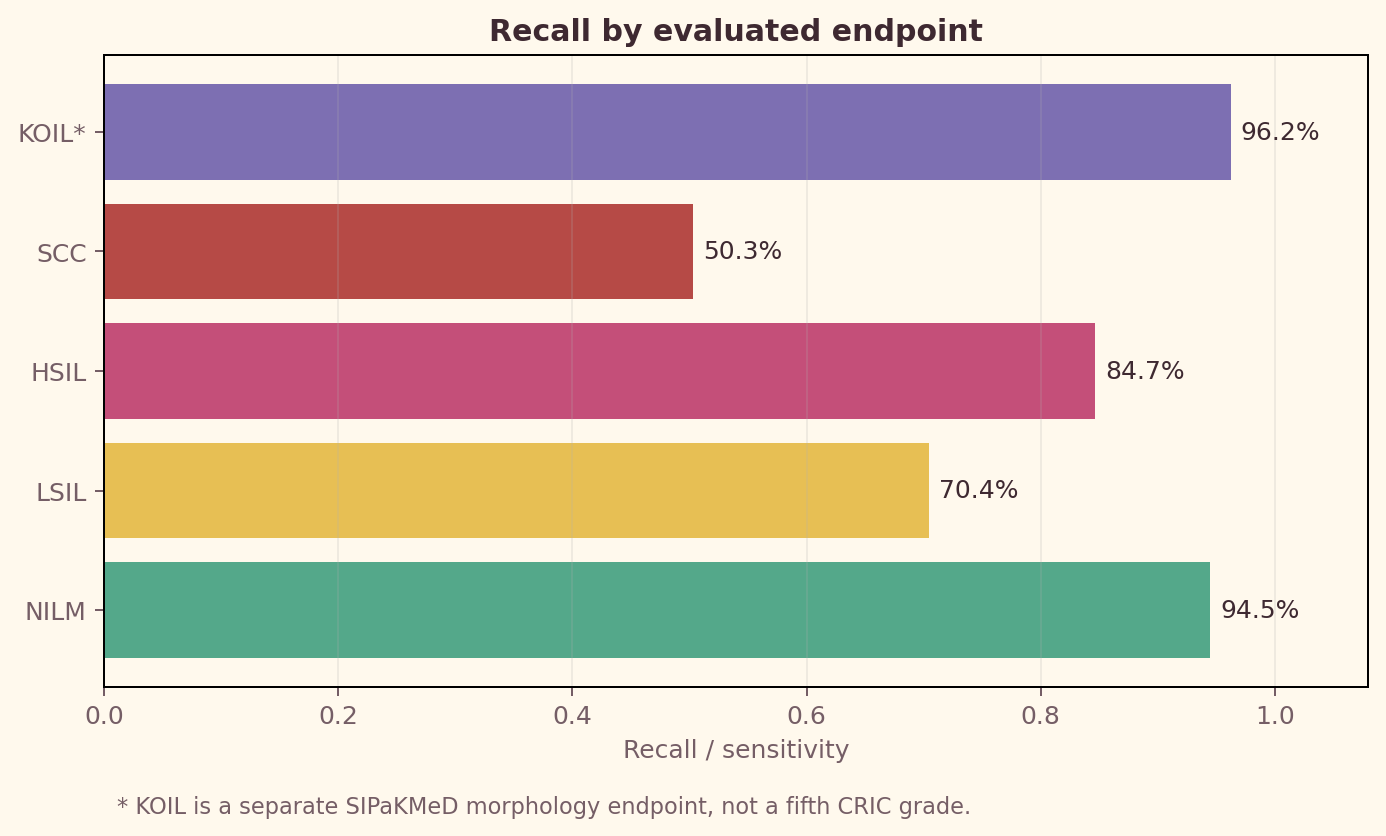
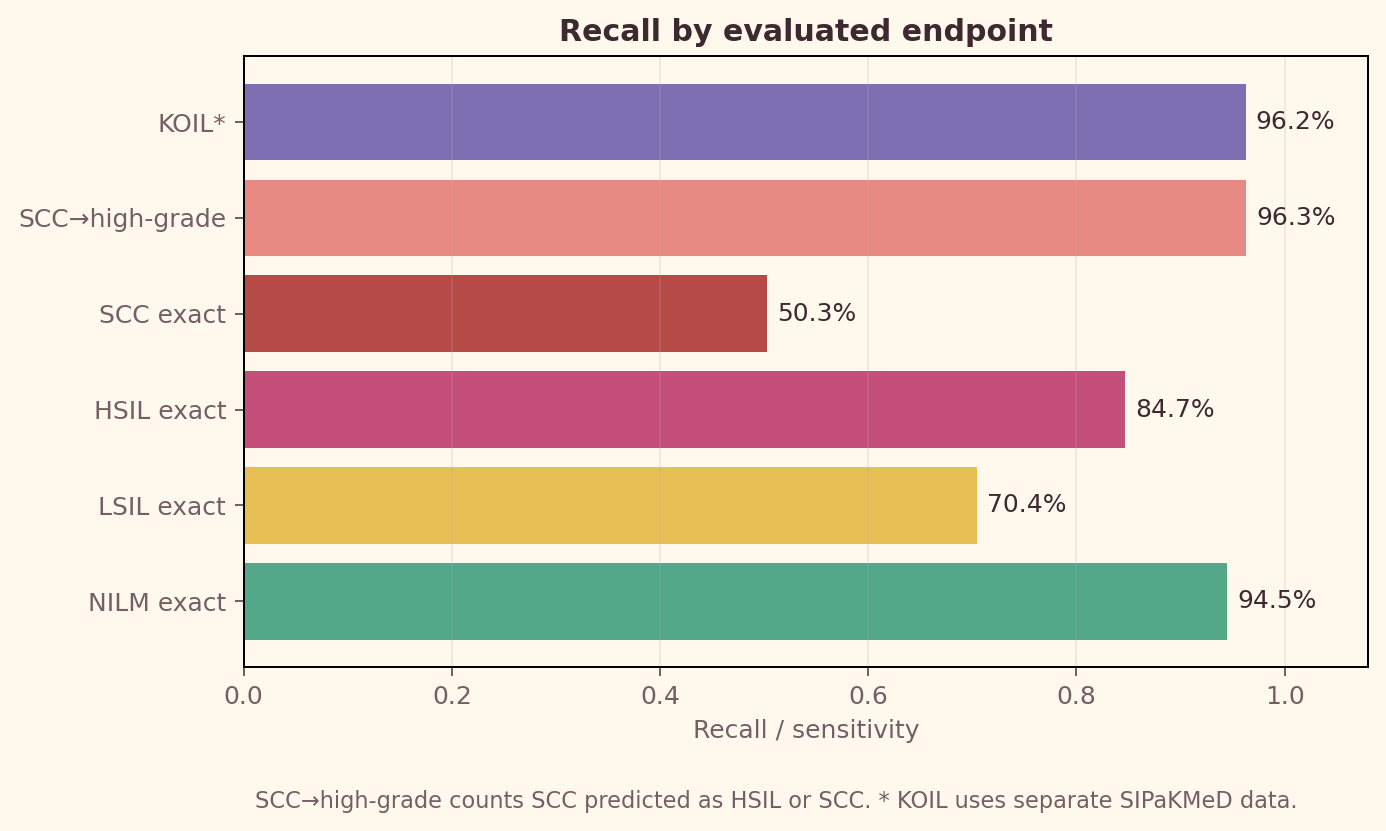
feat: clarify SCC screening performance

diff --git a/web-react/src/pages/Performance.tsx b/web-react/src/pages/Performance.tsx
@@ -1,116 +1,104 @@
+import { ChevronDown } from "lucide-react";
+import type { ReactNode } from "react";
+import { Link } from "wouter";
 import { Reveal } from "@/components/Reveal";
 import { METRICS, classInfo } from "@/lib/data";
-import { Link } from "wouter";
 
 const BASE = import.meta.env.BASE_URL;
 const GRADES = ["NILM", "LSIL", "HSIL", "SCC"] as const;
 
 const CRIC_FIGURES = [
-  { file: "evidence/cric-latest/cric_oof_confusion.png", title: "Pooled out-of-fold confusion matrix", detail: "All 10,003 CRIC cells. Each prediction comes from the fold where its parent microscope image was held out." },
-  { file: "evidence/cric-latest/cric_class_metrics.png", title: "Precision, recall, and F1 by grade", detail: "The aggregate score is not allowed to hide the weak SCC endpoint." },
-  { file: "evidence/cric-latest/cric_fold_accuracy.png", title: "Accuracy across all five folds", detail: "Every fold is retained; the lower fourth fold exposes source-image variability." },
-  { file: "evidence/cric-latest/cric_selective_tradeoff.png", title: "Selective accuracy versus coverage", detail: "Threshold 0.60 produces 91.7% accuracy at 94.1% coverage; the remaining 5.9% are sent for human review." },
-  { file: "evidence/cric-latest/cric_recall_by_endpoint.png", title: "Recall by endpoint", detail: "CRIC grade recalls and SIPaKMeD KOIL sensitivity share a visual scale, but not a dataset or label ontology." },
+  { file: "evidence/cric-latest/cric_oof_confusion.png", title: "Out-of-fold confusion matrix", detail: "All 10,003 cells; parent microscope images remain disjoint between folds." },
+  { file: "evidence/cric-latest/cric_class_metrics.png", title: "Precision, recall, and F1", detail: "Exact-grade performance for every class, including the weak SCC subtype endpoint." },
+  { file: "evidence/cric-latest/cric_fold_accuracy.png", title: "Accuracy across five folds", detail: "Every fold is retained so source-image variability remains visible." },
+  { file: "evidence/cric-latest/cric_selective_tradeoff.png", title: "Accuracy versus coverage", detail: "Higher confidence thresholds improve accepted-case accuracy by sending more cells to review." },
+  { file: "evidence/cric-latest/cric_recall_by_endpoint.png", title: "Recall by endpoint", detail: "SCC exact grading and SCC high-grade capture are shown separately; KOIL uses another dataset." },
 ] as const;
 
-const MODEL_ENDPOINTS = [
-  {
-    endpoint: "CRIC four-grade candidate",
-    output: "NILM / LSIL / HSIL / SCC",
-    evaluation: "10,003 cells · 395 parents · five-fold OOF",
-    result: <>91.7% selective at 94.1% coverage<br />88.8% full cohort</>,
-    status: "Research · not deployed",
-    statusClass: "text-hsil",
-  },
-  {
-    endpoint: "SIPaKMeD KOIL model",
-    output: "Koilocytic morphology positive / negative",
-    evaluation: "Locked test n=641 · source-cluster-disjoint",
-    result: <>Sensitivity 96.2% · AUROC 0.991</>,
-    status: "Independent endpoint",
-    statusClass: "text-teal",
-  },
-] as const;
+function MetricCard({ label, value, detail, accent = "var(--ink)" }: { label: string; value: string; detail: string; accent?: string }) {
+  return <div className="card min-w-0 p-5"><div className="text-xs font-medium text-mut">{label}</div><div className="mt-2 font-mono text-3xl font-semibold" style={{ color: accent }}>{value}</div><p className="mt-2 text-xs leading-5 text-mut">{detail}</p></div>;
+}
 
-function Stat({ label, value, sub, color }: { label: string; value: string; sub?: string; color?: string }) {
-  return <div className="card min-w-0 p-5"><div className="text-xs text-mut">{label}</div><div className="mt-1 break-words font-mono text-2xl font-semibold sm:text-3xl" style={{ color: color || "var(--ink)" }}>{value}</div>{sub && <div className="mt-1 text-xs leading-5 text-mut">{sub}</div>}</div>;
+function RecallRow({ label, value, detail, color }: { label: string; value: number; detail: string; color: string }) {
+  return <div className="grid gap-2 sm:grid-cols-[10rem_1fr_4rem] sm:items-center"><div><div className="text-sm font-semibold text-ink">{label}</div><div className="text-[11px] leading-4 text-mut">{detail}</div></div><div className="h-2 overflow-hidden rounded-full bg-line"><div className="h-full rounded-full" style={{ width: `${value * 100}%`, background: color }} /></div><div className="font-mono text-sm font-semibold sm:text-right" style={{ color }}>{(value * 100).toFixed(1)}%</div></div>;
 }
 
 function EvidenceFigure({ file, title, detail, wide = false }: { file: string; title: string; detail: string; wide?: boolean }) {
   return <figure className={`card overflow-hidden ${wide ? "md:col-span-2" : ""}`}><a href={`${BASE}${file}`} target="_blank" rel="noreferrer" className="block bg-[var(--paper)] p-2"><img src={`${BASE}${file}`} alt={title} loading="lazy" className="aspect-[16/10] w-full object-contain" /></a><figcaption className="border-t border-line p-4"><h3 className="font-display text-base font-semibold text-ink">{title}</h3><p className="mt-1 text-xs leading-5 text-mut">{detail}</p></figcaption></figure>;
 }
 
+function Disclosure({ title, summary, children }: { title: string; summary: string; children: ReactNode }) {
+  return <details className="group rounded-lg border border-line bg-surface"><summary className="flex cursor-pointer list-none items-center justify-between gap-4 p-5"><span><span className="block font-display text-lg font-semibold text-ink">{title}</span><span className="mt-1 block text-xs leading-5 text-mut">{summary}</span></span><ChevronDown className="shrink-0 text-teal transition group-open:rotate-180" size={19} aria-hidden /></summary><div className="border-t border-line p-5">{children}</div></details>;
+}
+
 function KoilConfusion() {
   const k = METRICS.koil.confusion;
-  const cells = [
-    ["TN", k.TN, "var(--nilm)"], ["FP", k.FP, "var(--hsil)"],
-    ["FN", k.FN, "var(--scc)"], ["TP", k.TP, "var(--koil)"],
-  ] as const;
-  return <div className="grid grid-cols-2 gap-2">{cells.map(([label, value, color]) => <div key={label} className="rounded-lg border border-line p-4 text-center" style={{ background: `color-mix(in srgb, ${color} 14%, var(--surface))` }}><div className="font-mono text-2xl font-semibold" style={{ color }}>{value}</div><div className="text-[10px] text-mut">{label}</div></div>)}</div>;
+  const cells = [["TN", k.TN, "var(--nilm)"], ["FP", k.FP, "var(--hsil)"], ["FN", k.FN, "var(--scc)"], ["TP", k.TP, "var(--koil)"]] as const;
+  return <div className="grid grid-cols-2 gap-2">{cells.map(([label, value, color]) => <div key={label} className="rounded-lg border border-line p-3 text-center"><div className="font-mono text-xl font-semibold" style={{ color }}>{value}</div><div className="text-[10px] text-mut">{label}</div></div>)}</div>;
 }
 
 export default function Performance() {
   const cg = METRICS.cricGrade;
-  const k = METRICS.koil;
-  return (
-    <div className="mx-auto max-w-5xl px-4 py-10 sm:px-6 sm:py-14">
-      <div className="kicker mb-2">Performance · latest measured evidence</div>
-      <div className="flex flex-wrap items-start justify-between gap-4">
-        <div>
-          <h1 className="font-display text-3xl font-semibold text-ink md:text-4xl">Latest model evaluation</h1>
-          <p className="mt-3 max-w-3xl text-sm leading-6 text-mut">The primary grade evidence below is the latest CRIC EfficientNet-B0 candidate, evaluated with five parent-image-disjoint folds. KOIL remains a separate SIPaKMeD morphology endpoint and is not a fifth grade or molecular HPV test.</p>
-        </div>
-        <span className="rounded-full border border-hsil px-3 py-1 text-xs font-semibold text-hsil">CRIC research model · not deployed</span>
-      </div>
-
-      <Reveal as="section" className="mt-8" aria-labelledby="headline-results">
-        <h2 id="headline-results" className="font-display text-2xl font-semibold text-ink">Primary four-grade result</h2>
-        <div className="mt-4 grid gap-3 sm:grid-cols-2 lg:grid-cols-4">
-          <Stat label="Selective accuracy" value="91.7%" sub={`95% CI ${cg.selectiveAccuracyCi}`} color="var(--teal)" />
-          <Stat label="Coverage" value="94.1%" sub={`${cg.accepted.toLocaleString()} accepted · ${cg.abstained} human review`} color="var(--navy)" />
-          <Stat label="Full-cohort accuracy" value="88.8%" sub={`95% CI ${cg.accuracyCi}`} />
-          <Stat label="Macro F1" value="74.1%" sub="Pooled across four grades" color="var(--hsil)" />
-        </div>
-        <div className="butter-panel mt-4 rounded-lg border p-5 text-sm leading-6 text-mut"><b className="text-ink">Required wording:</b> The latest CRIC research model achieved <b className="text-teal">91.7% selective four-grade accuracy at 94.1% coverage</b>; 5.9% of cells were abstained for human review. Full-cohort accuracy was 88.8%. The selective-accuracy CI is {cg.selectiveAccuracyCi}, so its lower bound remains below 90%.</div>
-      </Reveal>
-
-      <Reveal as="section" className="mt-8" aria-labelledby="main-endpoints">
-        <div className="kicker mb-3">Main evaluated models</div>
-        <h2 id="main-endpoints" className="font-display text-2xl font-semibold text-ink">Two model endpoints, two evidence domains</h2>
-        <div className="mt-4 hidden overflow-x-auto rounded-lg border border-line bg-surface sm:block">
-          <table className="w-full min-w-[720px] text-left text-sm"><thead className="bg-[var(--blush-soft)]"><tr><th className="p-4">Model endpoint</th><th className="p-4">Output</th><th className="p-4">Evaluation</th><th className="p-4">Measured result</th><th className="p-4">Status</th></tr></thead><tbody className="divide-y divide-line">
-            {MODEL_ENDPOINTS.map((model) => <tr key={model.endpoint}><th className="p-4 text-ink">{model.endpoint}</th><td className="p-4 text-mut">{model.output}</td><td className="p-4 text-mut">{model.evaluation}</td><td className="p-4 text-mut">{model.result}</td><td className={`p-4 font-semibold ${model.statusClass}`}>{model.status}</td></tr>)}
-          </tbody></table>
-        </div>
-        <div className="mt-4 grid gap-3 sm:hidden">{MODEL_ENDPOINTS.map((model) => <article key={model.endpoint} className="card p-4"><h3 className="font-semibold text-ink">{model.endpoint}</h3><dl className="mt-3 grid gap-3 text-xs"><div><dt className="font-semibold text-ink">Output</dt><dd className="mt-1 leading-5 text-mut">{model.output}</dd></div><div><dt className="font-semibold text-ink">Evaluation</dt><dd className="mt-1 leading-5 text-mut">{model.evaluation}</dd></div><div><dt className="font-semibold text-ink">Measured result</dt><dd className="mt-1 leading-5 text-mut">{model.result}</dd></div><div><dt className="font-semibold text-ink">Status</dt><dd className={`mt-1 font-semibold ${model.statusClass}`}>{model.status}</dd></div></dl></article>)}</div>
-        <p className="mt-3 text-xs leading-5 text-mut">The live upload workflow still uses the historical Herlev grade checkpoint. This page reports the latest research candidate without pretending that deployment has already changed.</p>
-      </Reveal>
-
-      <Reveal as="section" className="mt-8" aria-labelledby="latest-figures">
-        <div className="kicker mb-3">Latest CRIC figures</div>
-        <div className="flex flex-wrap items-end justify-between gap-3"><div><h2 id="latest-figures" className="font-display text-2xl font-semibold text-ink">Every grade graph now uses the latest OOF model</h2><p className="mt-2 max-w-3xl text-sm leading-6 text-mut">No Herlev grade graph or superseded research-v3 chart is mixed into this section.</p></div><Link href="/gallery" className="rounded-full border border-teal px-4 py-2 text-sm font-semibold text-teal">Inspect latest heatmaps</Link></div>
-        <div className="mt-5 grid gap-5 md:grid-cols-2">
-          {CRIC_FIGURES.map((figure, index) => <EvidenceFigure key={figure.file} {...figure} wide={index === CRIC_FIGURES.length - 1} />)}
-        </div>
-      </Reveal>
-
-      <Reveal as="section" className="mt-8" aria-labelledby="class-table">
-        <div className="kicker mb-3">Class-specific evidence</div>
-        <h2 id="class-table" className="font-display text-2xl font-semibold text-ink">Latest CRIC precision, recall, and F1</h2>
-        <div className="mt-4 hidden overflow-x-auto rounded-lg border border-line bg-surface sm:block"><table className="w-full min-w-[620px] text-left text-sm"><thead className="bg-[var(--blush-soft)]"><tr><th className="p-4">Grade</th><th className="p-4">Support</th><th className="p-4">Precision</th><th className="p-4">Recall</th><th className="p-4">F1</th></tr></thead><tbody className="divide-y divide-line">{GRADES.map((grade) => { const metric = cg.classMetrics[grade]; const info = classInfo(grade); return <tr key={grade}><th className="p-4" style={{ color: info.color }}>{info.icon} {grade}</th><td className="p-4 font-mono">{metric.support.toLocaleString()}</td><td className="p-4 font-mono">{(metric.precision * 100).toFixed(1)}%</td><td className="p-4 font-mono">{(metric.recall * 100).toFixed(1)}%</td><td className="p-4 font-mono">{(metric.f1 * 100).toFixed(1)}%</td></tr>; })}</tbody></table></div>
-        <div className="mt-4 grid grid-cols-2 gap-3 sm:hidden">{GRADES.map((grade) => { const metric = cg.classMetrics[grade]; const info = classInfo(grade); return <article key={grade} className="card min-w-0 p-4"><h3 className="font-semibold" style={{ color: info.color }}>{info.icon} {grade}</h3><div className="mt-3 font-mono text-xs leading-6 text-mut"><div>n {metric.support.toLocaleString()}</div><div>P {(metric.precision * 100).toFixed(1)}%</div><div>R {(metric.recall * 100).toFixed(1)}%</div><div>F1 {(metric.f1 * 100).toFixed(1)}%</div></div></article>; })}</div>
-        <div className="mt-4 rounded-lg border border-scc/40 p-4 text-sm leading-6 text-mut"><b className="text-scc">Safety limitation:</b> SCC recall is 50.3% on only 161 cells from 21 parent images. The model cannot support autonomous grading or clinical replacement even though its selective aggregate accuracy exceeds 90%.</div>
-      </Reveal>
-
-      <Reveal as="section" className="mt-8" aria-labelledby="koil-results">
-        <div className="kicker mb-3">Independent KOIL morphology</div>
-        <h2 id="koil-results" className="font-display text-2xl font-semibold text-ink">Separate model, retained because it answers a different question</h2>
-        <p className="mt-2 max-w-3xl text-sm leading-6 text-mut">KOIL is trained and tested on SIPaKMeD rather than CRIC. It estimates koilocytic morphology only and cannot confirm HPV DNA/RNA, genotype, persistence, or infection status.</p>
-        <div className="mt-5 grid gap-3 sm:grid-cols-2 lg:grid-cols-4"><Stat label="Sensitivity" value="96.2%" sub={`95% CI ${k.sensitivityCi}`} color="var(--teal)" /><Stat label="Specificity" value="97.6%" sub={`95% CI ${k.specificityCi}`} color="var(--navy)" /><Stat label="AUROC / AUPRC" value={`${k.auroc} / ${k.auprc}`} sub={`F1 ${k.f1}`} /><Stat label="External positives" value={k.externalDetected} sub="CCCID positive-only challenge" color="var(--koil)" /></div>
-        <div className="mt-5 grid gap-5 md:grid-cols-2"><div className="card p-6"><h3 className="text-sm font-semibold text-ink">KOIL locked-test confusion matrix</h3><p className="mb-4 mt-1 text-xs text-mut">Test n={k.test}; threshold {k.threshold}</p><KoilConfusion /></div><div className="card p-6 text-sm leading-6 text-mut"><h3 className="font-semibold text-ink">Claim boundary</h3><p className="mt-3">The CRIC 91.7% result belongs only to four-grade selective classification. The KOIL 96.2% sensitivity belongs only to the independent morphology endpoint. Neither number measures molecular HPV infection.</p><Link href="/datasets" className="mt-4 inline-block font-semibold text-teal underline">Review dataset provenance</Link></div></div>
-      </Reveal>
-
-      <div className="butter-panel mt-8 rounded-lg border p-5 text-xs leading-5 text-mut"><b className="text-ink">Evidence boundary:</b> CRIC is conventional Pap-smear cell evidence, not Thai ThinPrep clinical validation. Grad-CAM is post-hoc attention evidence, not segmentation or causal proof. All outputs require qualified human review.</div>
+  const koil = METRICS.koil;
+  return <div className="mx-auto max-w-5xl px-4 py-10 sm:px-6 sm:py-14">
+    <div className="kicker mb-2">Performance · latest evidence</div>
+    <div className="flex flex-wrap items-start justify-between gap-4">
+      <div className="max-w-3xl"><h1 className="font-display text-3xl font-semibold text-ink md:text-4xl">Model performance, without the clutter</h1><p className="mt-3 text-sm leading-6 text-mut">Start with the screening results below. Exact class metrics and all research charts remain available when you need to inspect them.</p></div>
+      <span className="rounded-full border border-hsil px-3 py-1 text-xs font-semibold text-hsil">CRIC research model · not deployed</span>
     </div>
-  );
+
+    <Reveal as="section" className="mt-8" aria-labelledby="headline-results">
+      <h2 id="headline-results" className="font-display text-2xl font-semibold text-ink">Key results</h2>
+      <div className="mt-4 grid gap-3 sm:grid-cols-2 lg:grid-cols-4">
+        <MetricCard label="Accepted-case accuracy" value="91.7%" detail="At 94.1% coverage; 592 uncertain cells go to human review." accent="var(--teal)" />
+        <MetricCard label="All-cell accuracy" value="88.8%" detail="All 10,003 OOF cells, including uncertain predictions." />
+        <MetricCard label="High-grade capture" value="90.6%" detail="1,688 of 1,864 HSIL-or-SCC cells stayed in the high-grade group." accent="var(--navy)" />
+        <MetricCard label="SCC high-grade capture" value="96.3%" detail="155 of 161 SCC cells were classified as HSIL or SCC." accent="var(--scc)" />
+      </div>
+      <p className="mt-3 text-xs leading-5 text-mut">The latest CRIC research model achieved 91.7% selective four-grade accuracy at 94.1% coverage, not accuracy on every cell. Full-cohort accuracy was 88.8%.</p>
+    </Reveal>
+
+    <Reveal as="section" className="mt-9" aria-labelledby="scc-explained">
+      <div className="kicker mb-2">SCC explained</div>
+      <h2 id="scc-explained" className="font-display text-2xl font-semibold text-ink">Screening capture is strong; exact subtyping is not</h2>
+      <p className="mt-2 max-w-3xl text-sm leading-6 text-mut">These two numbers answer different questions and should always be presented together.</p>
+      <div className="mt-5 grid gap-4 md:grid-cols-2">
+        <div className="card border-scc/40 p-6"><div className="text-xs font-semibold uppercase tracking-wider text-scc">Exact SCC label</div><div className="mt-2 font-mono text-3xl font-semibold text-scc">50.3%</div><p className="mt-3 text-sm leading-6 text-mut">81 of 161 SCC cells received the exact SCC label. Another 74 were called HSIL, so the model is not reliable for final HSIL-versus-SCC subtyping.</p></div>
+        <div className="card border-teal/40 p-6"><div className="text-xs font-semibold uppercase tracking-wider text-teal">Captured as high-grade</div><div className="mt-2 font-mono text-3xl font-semibold text-teal">96.3%</div><p className="mt-3 text-sm leading-6 text-mut">155 of 161 SCC cells were still placed in HSIL or SCC. This supports a high-grade review queue, but it does not make the system autonomous.</p></div>
+      </div>
+      <div className="mt-4 rounded-lg border border-line bg-[var(--blush-soft)] p-4 text-sm leading-6 text-mut"><b className="text-ink">What must improve next:</b> add more independent SCC parent images, use a validation-selected cost-sensitive objective, and evaluate on an external ThinPrep cohort. A display change cannot repair the exact SCC endpoint.</div>
+    </Reveal>
+
+    <Reveal as="section" className="mt-9" aria-labelledby="screening-recall">
+      <div className="flex flex-wrap items-end justify-between gap-3"><div><div className="kicker mb-2">Screening view</div><h2 id="screening-recall" className="font-display text-2xl font-semibold text-ink">Recall at a glance</h2></div><Link href="/gallery" className="rounded-full border border-teal px-4 py-2 text-sm font-semibold text-teal">Inspect model heatmaps</Link></div>
+      <div className="card mt-5 space-y-5 p-5 sm:p-6">
+        <RecallRow label="NILM exact" value={cg.classMetrics.NILM.recall} detail="Normal morphology" color="var(--nilm)" />
+        <RecallRow label="LSIL exact" value={cg.classMetrics.LSIL.recall} detail="Low-grade morphology" color="var(--lsil)" />
+        <RecallRow label="HSIL exact" value={cg.classMetrics.HSIL.recall} detail="High-grade morphology" color="var(--hsil)" />
+        <RecallRow label="SCC → high-grade" value={Number(cg.sccHighGradeCapture)} detail="SCC classified as HSIL or SCC" color="var(--scc)" />
+      </div>
+    </Reveal>
+
+    <Reveal as="section" className="mt-8 space-y-3" aria-label="Technical evidence">
+      <Disclosure title="Exact class metrics" summary="Support, precision, recall, and F1 for NILM, LSIL, HSIL, and SCC.">
+        <div className="hidden overflow-x-auto rounded-lg border border-line sm:block"><table className="w-full min-w-[620px] text-left text-sm"><thead className="bg-[var(--blush-soft)]"><tr><th className="p-4">Grade</th><th className="p-4">Support</th><th className="p-4">Precision</th><th className="p-4">Recall</th><th className="p-4">F1</th></tr></thead><tbody className="divide-y divide-line">{GRADES.map((grade) => { const metric = cg.classMetrics[grade]; const info = classInfo(grade); return <tr key={grade}><th className="p-4" style={{ color: info.color }}>{info.icon} {grade}</th><td className="p-4 font-mono">{metric.support.toLocaleString()}</td><td className="p-4 font-mono">{(metric.precision * 100).toFixed(1)}%</td><td className="p-4 font-mono">{(metric.recall * 100).toFixed(1)}%</td><td className="p-4 font-mono">{(metric.f1 * 100).toFixed(1)}%</td></tr>; })}</tbody></table></div>
+        <div className="grid grid-cols-2 gap-3 sm:hidden">{GRADES.map((grade) => { const metric = cg.classMetrics[grade]; const info = classInfo(grade); return <article key={grade} className="rounded-lg border border-line p-4"><h3 className="font-semibold" style={{ color: info.color }}>{info.icon} {grade}</h3><div className="mt-3 font-mono text-xs leading-6 text-mut"><div>n {metric.support.toLocaleString()}</div><div>P {(metric.precision * 100).toFixed(1)}%</div><div>R {(metric.recall * 100).toFixed(1)}%</div><div>F1 {(metric.f1 * 100).toFixed(1)}%</div></div></article>; })}</div>
+        <p className="mt-4 text-xs leading-5 text-mut">SCC recall is 50.3% for the exact label. Support is only 161 cells from 21 parent images, so the estimate remains unstable.</p>
+      </Disclosure>
+      <Disclosure title="All five research charts" summary="Every grade graph uses the latest parent-image-disjoint OOF model.">
+        <div className="grid gap-5 md:grid-cols-2">{CRIC_FIGURES.map((figure, index) => <EvidenceFigure key={figure.file} {...figure} wide={index === CRIC_FIGURES.length - 1} />)}</div>
+      </Disclosure>
+      <Disclosure title="How the two model endpoints differ" summary="CRIC grades cells; SIPaKMeD estimates koilocytic morphology.">
+        <div className="grid gap-4 md:grid-cols-2"><div className="rounded-lg border border-line p-5"><div className="font-semibold text-ink">CRIC four-grade candidate</div><p className="mt-2 text-sm leading-6 text-mut">NILM / LSIL / HSIL / SCC · 10,003 cells · 395 parent images · five-fold OOF. Research only; the live upload still uses the historical Herlev checkpoint.</p></div><div className="rounded-lg border border-line p-5"><div className="font-semibold text-ink">SIPaKMeD KOIL model</div><p className="mt-2 text-sm leading-6 text-mut">Koilocytic morphology positive / negative · locked test n=641. Independent morphology endpoint, not a fifth grade and not an HPV molecular test.</p></div></div>
+      </Disclosure>
+    </Reveal>
+
+    <Reveal as="section" className="mt-9" aria-labelledby="koil-results">
+      <div className="kicker mb-2">Independent KOIL morphology</div><h2 id="koil-results" className="font-display text-2xl font-semibold text-ink">A separate model for a separate question</h2><p className="mt-2 max-w-3xl text-sm leading-6 text-mut">KOIL estimates morphology associated with HPV effects. It cannot confirm HPV DNA/RNA, genotype, persistence, or infection status.</p>
+      <div className="mt-5 grid gap-3 sm:grid-cols-2 lg:grid-cols-4"><MetricCard label="Sensitivity" value="96.2%" detail={`95% CI ${koil.sensitivityCi}`} accent="var(--teal)" /><MetricCard label="Specificity" value="97.6%" detail={`95% CI ${koil.specificityCi}`} accent="var(--navy)" /><MetricCard label="AUROC" value={String(koil.auroc)} detail={`AUPRC ${koil.auprc}`} /><MetricCard label="External positives" value={koil.externalDetected} detail="CCCID positive-only challenge" accent="var(--koil)" /></div>
+      <div className="mt-4"><Disclosure title="KOIL locked-test details" summary={`Confusion matrix at threshold ${koil.threshold}.`}><div className="mx-auto max-w-md"><KoilConfusion /></div></Disclosure></div>
+    </Reveal>
+
+    <div className="butter-panel mt-9 rounded-lg border p-5 text-xs leading-5 text-mut"><b className="text-ink">Evidence boundary:</b> CRIC is conventional Pap-smear cell evidence, not Thai ThinPrep clinical validation. Grad-CAM is post-hoc attention evidence, not segmentation or causal proof. All outputs require qualified human review.</div>
+  </div>;
 }

diff --git a/web-react/src/lib/data.ts b/web-react/src/lib/data.ts
@@ -71,10 +71,12 @@ export const METRICS = {
   cricGrade: {
     dataset: "CRIC Cervix Cell Classification",
     cells: 10003, parents: 395,
-    accuracy: "0.8883", accuracyMeanSd: "0.8883 ± 0.0288", accuracyCi: "0.8628–0.9109",
+    accuracy: "0.8883", accuracyMeanSd: "0.8883 ± 0.0288", accuracyCi: "0.8619–0.9110",
     macroF1: "0.7410", sccRecall: "0.5031", hsilRecall: "0.8467",
-    selectiveThreshold: "0.60", selectiveAccuracy: "0.9166", selectiveAccuracyCi: "0.8954–0.9346",
-    selectiveCoverage: "0.9408", selectiveCoverageCi: "0.9276–0.9528", accepted: 9411, abstained: 592,
+    highGradeCapture: "0.9056", highGradeCaptured: 1688, highGradeSupport: 1864,
+    sccHighGradeCapture: "0.9627", sccHighGradeCaptured: 155, sccSupport: 161,
+    selectiveThreshold: "0.60", selectiveAccuracy: "0.9166", selectiveAccuracyCi: "0.8960–0.9349",
+    selectiveCoverage: "0.9408", selectiveCoverageCi: "0.9278–0.9529", accepted: 9411, abstained: 592,
     classMetrics: {
       NILM: { support: 6779, precision: 0.942466, recall: 0.944830, f1: 0.943646 },
       LSIL: { support: 1360, precision: 0.721386, recall: 0.704412, f1: 0.712798 },

diff --git a/scripts/build_cric_latest_web_evidence.py b/scripts/build_cric_latest_web_evidence.py
@@ -238,11 +238,14 @@ def save_charts(labels: np.ndarray, probabilities: np.ndarray, fold_accuracy: li
     figures.append({"file": f"evidence/cric-latest/{path.name}", "title": "Selective accuracy versus coverage", "detail": "At threshold 0.60, accuracy is 91.7% at 94.1% coverage. The rejected 5.9% require human review."})
 
     fig, ax = plt.subplots(figsize=(7.8, 4.8))
-    names = [*CLASSES, "KOIL*"]; values = [class_metrics[name]["recall"] for name in CLASSES] + [0.9624]
-    bars = ax.barh(names, values, color=[*COLORS, "#7D6FB2"])
+    scc_mask = labels == 3
+    scc_high_grade_capture = float((predicted[scc_mask] >= 2).mean())
+    names = ["NILM exact", "LSIL exact", "HSIL exact", "SCC exact", "SCC→high-grade", "KOIL*"]
+    values = [class_metrics[name]["recall"] for name in CLASSES] + [scc_high_grade_capture, 0.9624]
+    bars = ax.barh(names, values, color=[*COLORS, "#E78A83", "#7D6FB2"])
     ax.bar_label(bars, labels=[f"{value:.1%}" for value in values], padding=4)
     ax.set_xlim(0, 1.08); ax.set_xlabel("Recall / sensitivity"); ax.set_title("Recall by evaluated endpoint", weight="bold"); ax.grid(axis="x", alpha=.2)
-    ax.text(.01, -.20, "* KOIL is a separate SIPaKMeD morphology endpoint, not a fifth CRIC grade.", transform=ax.transAxes, fontsize=9, color=MUTED)
+    ax.text(.01, -.23, "SCC→high-grade counts SCC predicted as HSIL or SCC. * KOIL uses separate SIPaKMeD data.", transform=ax.transAxes, fontsize=9, color=MUTED)
     fig.tight_layout(); path = EVIDENCE / "cric_recall_by_endpoint.png"; fig.savefig(path, dpi=180, bbox_inches="tight"); plt.close(fig)
     figures.append({"file": f"evidence/cric-latest/{path.name}", "title": "Recall by endpoint", "detail": "CRIC grade recalls and the independent SIPaKMeD KOIL sensitivity share a scale but not a dataset or label ontology."})
     return figures
@@ -283,6 +286,18 @@ def main() -> int:
         "fold_accuracy": fold_accuracy,
         "confusion_matrix": confusion_matrix(labels, predicted, labels=range(4)).tolist(),
         "class_metrics": class_metrics,
+        "grouped_endpoints": {
+            "high_grade_hsil_or_scc": {
+                "captured": int(((labels >= 2) & (predicted >= 2)).sum()),
+                "support": int((labels >= 2).sum()),
+                "recall": float((predicted[labels >= 2] >= 2).mean()),
+            },
+            "scc_captured_as_high_grade": {
+                "captured": int(((labels == 3) & (predicted >= 2)).sum()),
+                "support": int((labels == 3).sum()),
+                "recall": float((predicted[labels == 3] >= 2).mean()),
+            },
+        },
         "selective_curve": selective,
         "figures": figures,
         "limitations": ["Research candidate, not the deployed upload checkpoint.", "Conventional Pap-smear cells, not Thai ThinPrep clinical validation.", "SCC recall remains 50.3%.", "No molecular HPV endpoint."],

diff --git a/ml/scripts/aggregate_cric_grade_cv.py b/ml/scripts/aggregate_cric_grade_cv.py
@@ -78,6 +78,21 @@ def main() -> int:
     if len(np.unique(groups_array)) != 395:
         raise RuntimeError("expected every CRIC parent image exactly once across OOF test folds")
     pooled = metrics_from_predictions(labels_array, probabilities_array, triage_array, high_risk_array)
+    predicted_array = probabilities_array.argmax(1)
+    grouped_endpoints = {
+        "high_grade_hsil_or_scc": {
+            "definition": "true HSIL or SCC predicted as HSIL or SCC",
+            "captured": int(((labels_array >= 2) & (predicted_array >= 2)).sum()),
+            "support": int((labels_array >= 2).sum()),
+            "recall": float((predicted_array[labels_array >= 2] >= 2).mean()),
+        },
+        "scc_captured_as_high_grade": {
+            "definition": "true SCC predicted as HSIL or SCC",
+            "captured": int(((labels_array == 3) & (predicted_array >= 2)).sum()),
+            "support": int((labels_array == 3).sum()),
+            "recall": float((predicted_array[labels_array == 3] >= 2).mean()),
+        },
+    }
     numeric = ("accuracy", "balanced_accuracy", "macro_f1", "high_risk_exact_recall", "triage_head_recall_at_0_5")
     mean_sd = {
         metric: {
@@ -97,6 +112,7 @@ def main() -> int:
         "folds": fold_metrics,
         "mean_sd": mean_sd,
         "pooled_oof": pooled,
+        "grouped_endpoints": grouped_endpoints,
         "group_bootstrap": bootstrap,
         "claim_assessment": {
             "full_cohort_accuracy_above_90": pooled["accuracy"] >= 0.90,
@@ -129,6 +145,7 @@ def main() -> int:
         "pooled_accuracy": pooled["accuracy"],
         "pooled_macro_f1": pooled["macro_f1"],
         "pooled_per_class_recall": pooled["per_class_recall"],
+        "grouped_endpoints": grouped_endpoints,
         "group_bootstrap": bootstrap,
         "selective_threshold": selective_60["threshold"],
         "selective_accuracy": selective_60["selective_accuracy"],

diff --git a/tests/test_frontend_evidence_contract.py b/tests/test_frontend_evidence_contract.py
@@ -39,7 +39,7 @@ class FrontendEvidenceContractTests(unittest.TestCase):
         source = (ROOT / "web-react" / "src" / "pages" / "Performance.tsx").read_text(encoding="utf-8")
 
         self.assertIn("CRIC research model · not deployed", source)
-        self.assertIn("Every grade graph now uses the latest OOF model", source)
+        self.assertIn("Every grade graph uses the latest parent-image-disjoint OOF model", source)
         self.assertNotIn("Research v3", source)
         self.assertNotIn("Historical Herlev grade view", source)
         self.assertNotIn("Binary screening view", source)
@@ -54,6 +54,9 @@ class FrontendEvidenceContractTests(unittest.TestCase):
         self.assertAlmostEqual(evidence["selective_accuracy"], 0.9165869726915312)
         self.assertAlmostEqual(evidence["selective_coverage"], 0.940817754673598)
         self.assertLess(evidence["pooled_accuracy"], 0.90)
+        self.assertEqual(evidence["grouped_endpoints"]["scc_captured_as_high_grade"]["captured"], 155)
+        self.assertEqual(evidence["grouped_endpoints"]["scc_captured_as_high_grade"]["support"], 161)
+        self.assertAlmostEqual(evidence["grouped_endpoints"]["scc_captured_as_high_grade"]["recall"], 0.9627329192546584)
 
     def test_latest_cric_web_figures_and_heatmaps_are_auditable(self):
         evidence = json.loads((ROOT / "web-react" / "public" / "evidence" / "cric-latest" / "index.json").read_text(encoding="utf-8"))
@@ -61,6 +64,9 @@ class FrontendEvidenceContractTests(unittest.TestCase):
         self.assertEqual(evidence["cells"], 10003)
         self.assertEqual(evidence["parent_images"], 395)
         self.assertEqual(len(evidence["figures"]), 5)
+        self.assertEqual(evidence["grouped_endpoints"]["scc_captured_as_high_grade"]["captured"], 155)
+        self.assertEqual(evidence["grouped_endpoints"]["scc_captured_as_high_grade"]["support"], 161)
+        self.assertAlmostEqual(evidence["grouped_endpoints"]["scc_captured_as_high_grade"]["recall"], 0.9627329192546584)
         self.assertEqual(gallery["count"], 20)
         self.assertIn("parent-image-disjoint OOF", gallery["protocol"])
         for grade in ("NILM", "LSIL", "HSIL", "SCC"):

diff --git a/docs/CLAUDE_HANDOFF_SOLVE_WSEEC_2026.md b/docs/CLAUDE_HANDOFF_SOLVE_WSEEC_2026.md
@@ -1177,10 +1177,10 @@ descriptions above.
   and the explanatory "What each table and graph measures" block were removed.
 - The latest CRIC candidate was evaluated on 10,003 cells from 395 parent
   microscope images with five parent-image-disjoint out-of-fold splits. Its
-  full-cohort four-grade accuracy is 88.8% (95% CI 0.8628-0.9109).
+  full-cohort four-grade accuracy is 88.8% (95% CI 0.8619-0.9110).
 - At the pre-reported confidence threshold of 0.60, 9,411 cells are accepted
   and 592 are abstained for human review: selective accuracy is 91.7% at 94.1%
-  coverage (95% CI 0.8954-0.9346). Never shorten this to "the model is 91.7%
+  coverage (95% CI 0.8960-0.9349). Never shorten this to "the model is 91.7%
   accurate" without stating both selective evaluation and coverage.
 - CRIC per-class recall is NILM 94.5%, LSIL 70.4%, HSIL 84.7%, and SCC 50.3%.
   The weak SCC result, with 161 cells from only 21 parent images, remains
@@ -1212,3 +1212,31 @@ descriptions above.
 - Verification for this release: 66 unit/contract tests passed, the production
   frontend build completed, claim audit passed, and responsive browser checks
   showed no horizontal overflow at 390 px on Performance or Case Gallery.
+
+## 2026-07-22 SCC interpretation and clean Performance UI
+
+- The SCC exact-label recall remains 50.3%: 81 of 161 true SCC cells were
+  labelled SCC. This metric was not changed or hidden.
+- The confusion matrix shows that 74 additional SCC cells were labelled HSIL.
+  Therefore, 155 of 161 SCC cells (96.3%) were still captured in the combined
+  HSIL-or-SCC high-grade group. Across all true HSIL and SCC cells, high-grade
+  capture is 1,688 of 1,864 (90.6%).
+- Always distinguish these endpoints: 50.3% measures exact SCC subtyping;
+  96.3% measures whether SCC entered the high-grade review queue. The latter
+  does not justify autonomous grading or a claim that SCC classification is
+  96.3% accurate.
+- A post-hoc global SCC logit-bias sweep was explored locally and rejected. It
+  raised SCC recall only by sharply reducing SCC precision and macro F1, and it
+  was not validation-selected. No model checkpoint or headline result changed.
+- `/performance` now uses progressive disclosure. Four screening-level cards,
+  an SCC exact-versus-high-grade explanation, and a compact recall view appear
+  first. Exact precision/recall/F1, all five research charts, endpoint
+  provenance, and the KOIL confusion matrix remain available in expandable
+  sections.
+- `ml/scripts/aggregate_cric_grade_cv.py` and
+  `scripts/build_cric_latest_web_evidence.py` now write auditable grouped
+  endpoints. The recall chart displays SCC exact recall and SCC high-grade
+  capture separately.
+- Improving exact SCC grading requires more independent SCC parent images,
+  validation-selected cost-sensitive training, and external ThinPrep
+  evaluation. UI wording cannot repair this endpoint.